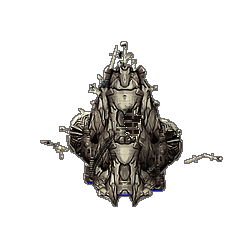
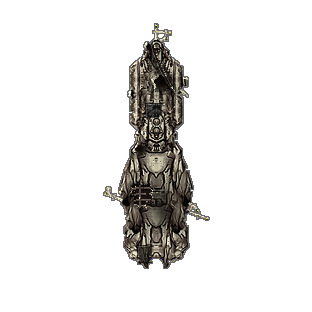
The Purifier escorts round 5b: long, lean end-to-end hulls, larger on screen
- Frigate, destroyer, cruiser, capital ship and troop transport rebuilt with their stock hulls meshed end to end
  (needle bow hulls, long main hulls, tapering sterns) instead of side by side: length 2-3x the width, drawn
  larger than the stock warships of each role (frigate 124, destroyer 160, cruiser 189, capital 216 px long at the
  closest zoom vs stock medians 92 / 98 / 119 / 152), the capital ship the longest with slim sponson hulls
  amidships; the planet destroyer stays the biggest mass (200 x 185).
- The banana carrier unchanged; fewer edge spikes on the small ships.
- Detail metric: every escort above the stock median on edge density and local contrast.

Claude-Session: https://claude.ai/code/session_0163BYLbDKYohHLP1KWpaU5H

Changed region(s): [[0.14, 0.056, 0.896, 0.868]]

diff --git a/game/scripts/purifier-ships.py b/game/scripts/purifier-ships.py
@@ -23,13 +23,13 @@ Per output frame (bow up, as the stock frames; square canvas with a margin for t
    dropped: thrusters only where open space lies aft), each casting a soft contact shadow on what is below; the
    stock pieces carry their levelled shading, the AncientHelpers ones their native colour, their lights as a glow
    channel and their thruster (pure blue) / light (pure yellow) marker pixels as points, mapped through each
-   placement. The escorts: a frigate of a swept-wing hull aft, a dart forward through it and a slim outrigger hull
-   to port; a destroyer of a broad engine section, a long hull forward and a spine hull on top; a cruiser of twin
-   nacelle hulls aft, a swept-wing hull and a broad command hull; a capital ship of a wide armoured hull aft, a long
-   heavy hull forward, slim sponson hulls on both flanks and a spinal hull along the starboard side; a carrier of
-   three hulls end to end with the angled flight deck (landing lanes, chevrons, landing lights, hangar lifts) fused
-   along its port flank, the whole bent into a banana curve (bend()); a troop transport of a long troop hull with two
-   bulbous pod hulls fused on its flanks. Then masts and the edge dressing: whips and sensor masts (single and in
+   placement. The escorts are long and lean, their hulls meshed end to end: a frigate of a needle bow hull run into
+   a longer main hull; a destroyer of a needle bow, a long main hull and a slim engine hull; a cruiser of a pointed
+   bow hull, a broad main hull and a tapering stern hull; the capital ship, the longest, of a needle bow, two heavy
+   hulls and a wide engine hull with two slim hulls along its midsection as sponsons; a troop transport of a slim
+   bow hull run into the troop hull; and the carrier of three hulls end to end with the angled flight deck (landing
+   lanes, chevrons, landing lights, hangar lifts) fused along its port flank, the whole bent into a banana curve
+   (bend()). Then masts and the edge dressing: whips and sensor masts (single and in
    fanned clusters), short spikes, small dishes on stalks, fins, small turrets, vents and pipes planted round the
    outline pointing outward. Some tips and beads (at most 18 per frame, under the scan cap of 20) are pure-yellow
    nav-light markers, so they blink at runtime as the planet destroyer's own spike lights do. The dock and outpost:
@@ -1305,53 +1305,52 @@ def build(root, name, rng):
         edge_dress(c, (c.A > 0.5).astype(np.float64), n, lights=18, avoid=avoid, k=0.6)
 
     if name == 'frigate':
-        # Three hulls meshed: a swept-wing hull aft, a long dart forward through it, a slim outrigger hull fused on
-        # to port.
-        c = Canvas(160, pad=20, z=1.25)
-        c.put(H('family17', 'frigate'), 80, 104, 0.5, shadow=0)
-        c.put(H('family7', 'frigate'), 54, 102, 0.5, shadow=0.4, gain=0.95)
-        c.put(H('family22', 'frigate'), 82, 82, 0.42, shadow=0.6)
-        mast(c, 82, 30, 20, 4, beads=(0.5,))
-        mast(c, 112, 112, 26, -60)
-        mast(c, 46, 76, 22, 34)
-        dress(c, 18)
+        # Two hulls end to end: a needle bow hull run into a longer main hull, a sleek dart.
+        c = Canvas(190, pad=20, z=1.25)
+        c.put(H('family14', 'frigate'), 95, 120, 0.5, shadow=0)
+        c.put(H('family25', 'frigate'), 95, 52, 0.5, shadow=0.55)
+        mast(c, 95, 14, 18, 0, beads=(0.5,))
+        mast(c, 72, 140, 22, 70)
+        mast(c, 118, 150, 20, -110)
+        dress(c, 10)
         return c
     if name == 'destroyer':
-        # A broad engine section aft with a long hull run forward through it and a narrow spine hull on top.
-        c = Canvas(180, pad=20, z=1.25)
-        c.put(H('family12', 'destroyer'), 90, 122, 0.5, shadow=0)
-        c.put(H('family14', 'destroyer'), 90, 90, 0.5, shadow=0.55)
-        c.put(H('family25', 'destroyer'), 90, 98, 0.42, shadow=0.5, gain=1.05)
-        mast(c, 90, 34, 22, 0, beads=(0.5,))
-        mast(c, 40, 130, 26, 70)
-        mast(c, 140, 130, 26, -70)
-        dress(c, 22)
+        # Three hulls end to end: a needle bow hull, a long main hull, a slim engine hull aft.
+        c = Canvas(260, pad=20, z=1.25)
+        c.put(H('family7', 'destroyer'), 130, 206, 0.5, shadow=0)
+        c.put(H('family24', 'destroyer'), 130, 132, 0.5, shadow=0.5)
+        c.put(H('family25', 'destroyer'), 130, 54, 0.5, shadow=0.55)
+        mast(c, 130, 12, 20, 0, beads=(0.5,))
+        mast(c, 106, 120, 26, 60)
+        mast(c, 154, 170, 24, -120)
+        dress(c, 14)
         return c
     if name == 'cruiser':
-        # Twin hulls aft as engine nacelles, a swept-wing hull fused over them, a broad command hull over its bow.
-        c = Canvas(210, pad=20, z=1.25)
-        c.put(H('family8', 'cruiser'), 80, 138, 0.42, shadow=0)
-        c.put(H('family8', 'cruiser'), 130, 138, 0.42, flipx=True, shadow=0)
-        c.put(H('family4', 'cruiser'), 105, 120, 0.5, shadow=0.4)
-        c.put(H('family21', 'cruiser'), 105, 100, 0.45, shadow=0.6)
-        mast(c, 105, 44, 26, 0, beads=(0.5,))
-        mast(c, 74, 112, 30, 50)
-        mast(c, 136, 112, 30, -50)
-        dress(c, 30)
+        # Three hulls end to end: a long pointed bow hull, a broad main hull amidships, a tapering stern hull.
+        c = Canvas(320, pad=20, z=1.25)
+        c.put(H('family14', 'cruiser'), 160, 250, 0.5, shadow=0)
+        c.put(H('family22', 'cruiser'), 160, 152, 0.5, shadow=0.5)
+        c.put(H('family25', 'cruiser'), 160, 62, 0.5, shadow=0.55)
+        mast(c, 160, 14, 24, 0, beads=(0.5,))
+        mast(c, 124, 150, 30, 64)
+        mast(c, 196, 150, 30, -64)
+        dress(c, 22)
         return c
     if name == 'capitalship':
-        # A wide armoured hull aft, a long heavy hull run forward over it, slim hulls fused along both flanks as
-        # gun sponsons, a long spinal hull laid along the starboard flank as the main gun.
-        c = Canvas(250, pad=20, z=1.25)
-        c.put(H('family9', 'capitalship'), 125, 146, 0.5, shadow=0)
-        c.put(H('family7', 'destroyer'), 82, 156, 0.5, shadow=0.35)
-        c.put(H('family7', 'destroyer'), 168, 156, 0.5, flipx=True, shadow=0.35)
-        c.put(H('family25', 'capitalship'), 158, 116, 0.5, shadow=0.45, gain=0.95)
-        c.put(H('family8', 'capitalship'), 122, 112, 0.5, shadow=0.6)
-        mast(c, 122, 40, 26, 0, beads=(0.5,))
-        mast(c, 60, 150, 34, 64)
-        mast(c, 96, 200, 28, 140)
-        dress(c, 40)
+        # Four hulls end to end, the longest ship: a needle bow hull, two heavy hulls amidships, a wide engine hull aft;
+        # two slim hulls fused along the midsection flanks as heavy sponsons.
+        c = Canvas(380, pad=20, z=1.25)
+        c.put(H('family22', 'capitalship'), 190, 300, 0.5, shadow=0)
+        c.put(H('family7', 'cruiser'), 148, 228, 0.5, shadow=0)
+        c.put(H('family7', 'cruiser'), 232, 228, 0.5, flipx=True, shadow=0)
+        c.put(H('family9', 'capitalship'), 190, 222, 0.5, shadow=0.5)
+        c.put(H('family8', 'capitalship'), 190, 140, 0.5, shadow=0.55)
+        c.put(H('family25', 'capitalship'), 190, 58, 0.5, shadow=0.55)
+        mast(c, 190, 10, 26, 0, beads=(0.5,))
+        mast(c, 124, 224, 34, 66)
+        mast(c, 256, 224, 34, -66)
+        mast(c, 166, 120, 26, 40)
+        dress(c, 30)
         return c
     if name == 'carrier':
         # The banana: one long hull of three stock hulls meshed end to end (a slim bow hull, a broad carrier hull
@@ -1373,15 +1372,14 @@ def build(root, name, rng):
         dress(c, 28, avoid=tuple((60 + ((y - 138) ** 2) / 300, y, 22) for y in range(30, 260, 16)))
         return c
     if name == 'trooptransport':
-        # A long troop hull with two bulbous pod hulls fused along its flanks, a little offset.
-        c = Canvas(160, pad=20, z=1.25)
-        c.put(H('family13', 'trooptransport'), 54, 98, 0.5, shadow=0)
-        c.put(H('family13', 'trooptransport'), 106, 104, 0.5, flipx=True, shadow=0)
-        c.put(H('family21', 'trooptransport'), 80, 88, 0.5, shadow=0.6)
-        mast(c, 80, 32, 20, 0, beads=(0.5,))
-        mast(c, 34, 100, 24, 70)
-        mast(c, 128, 110, 24, -70)
-        dress(c, 18)
+        # Two hulls end to end: a slim pointed bow hull run into the troop hull, its drop bays along the flanks.
+        c = Canvas(210, pad=20, z=1.25)
+        c.put(H('family21', 'trooptransport'), 105, 138, 0.5, shadow=0)
+        c.put(H('family25', 'trooptransport'), 105, 56, 0.5, shadow=0.55)
+        mast(c, 105, 12, 18, 0, beads=(0.5,))
+        mast(c, 78, 140, 22, 70)
+        mast(c, 132, 150, 22, -110)
+        dress(c, 10)
         return c
     if name == 'base_0':
         # A broken outpost: the Shakturi station body inside a half-ring of gantry, one arm snapped, debris adrift.

diff --git a/game/docs/release-notes.md b/game/docs/release-notes.md
@@ -4,7 +4,7 @@ Notes for the next release, to copy into the GitHub release (RELEASING.md step 2
 
 ## Unreleased
 
-- **The Purifier: war-forged escorts and a ruined dock.** The Purifier's escorts and guards (escort, frigate, destroyer, cruiser, capital ship, carrier, troop transport) have new art in the planet destroyer's own colours (silver and champagne plating, pale-gold and copper trim, dark steel machinery), so they read as its fleet. Each is two to four existing hulls fused into one ship, keeping their detailed paintwork, so none looks like an existing race's ship: a frigate with swept wings and an outrigger hull, a destroyer with a broad engine section, a cruiser on twin engine nacelles, a capital ship with sponson hulls on both flanks and a long spinal hull along one side, a banana-curved carrier with its landing deck (landing lanes, landing lights, hangar lifts) running along the curve, and a troop transport with two bulbous pod hulls on its flanks. Like the destroyer's spikes, thin antennas, whips, small dishes and fins stick out all round them, with blinking lights on some of the tips. They are battered by ages of fighting: missing hull plates showing the ribbed frame inside, gouges, impact craters, scorch, melted edges, gunmetal and steel plates welded over old holes and chipped edges. Brighter edges, darker recesses and a thin dark outline keep them readable at normal zoom and against nebulae. Its dock is now a half-ruined shipyard in the same metal, with masts and lights of its own: an empty cradle ring where the Purifier slept, clamp arms reaching in (one snapped off and drifting), broken gantries and scaffold arms, and debris floating around it; its other stations match. The planet destroyer itself keeps its look, the biggest ship and the only one with a glowing core, so it still stands out as the one unbroken weapon. Looks only: nothing in the game rules changes.
+- **The Purifier: war-forged escorts and a ruined dock.** The Purifier's escorts and guards (escort, frigate, destroyer, cruiser, capital ship, carrier, troop transport) have new art in the planet destroyer's own colours (silver and champagne plating, pale-gold and copper trim, dark steel machinery), so they read as its fleet. Each is two to four existing hulls fused into one ship, keeping their detailed paintwork, so none looks like an existing race's ship. They are long, lean warships with their hulls joined end to end and tapering bows, larger on screen than the ordinary warships of their class (the capital ship the longest, with heavy sponsons amidships), and the carrier is a banana-curved hull with its landing deck (landing lanes, landing lights, hangar lifts) running along the curve. Like the destroyer's spikes, thin antennas, whips, small dishes and fins stick out all round them, with blinking lights on some of the tips. They are battered by ages of fighting: missing hull plates showing the ribbed frame inside, gouges, impact craters, scorch, melted edges, gunmetal and steel plates welded over old holes and chipped edges. Brighter edges, darker recesses and a thin dark outline keep them readable at normal zoom and against nebulae. Its dock is now a half-ruined shipyard in the same metal, with masts and lights of its own: an empty cradle ring where the Purifier slept, clamp arms reaching in (one snapped off and drifting), broken gantries and scaffold arms, and debris floating around it; its other stations match. The planet destroyer itself keeps its look, the biggest ship and the only one with a glowing core, so it still stands out as the one unbroken weapon. Looks only: nothing in the game rules changes.
 - **Mothball slot: left-click opens the port list.** On the selection panel, clicking Mothball now lists your space ports (best one first, marked ★) instead of sending the force straight to the best port, as the Fleets and Ships screens already did. Reactivate and Cancel still act at once.
 - **Crisis interactions: reputation, opportunists, the council, Purifier refugees.** The loose crisis factions (the Purifier, the Cult, the Hive, Generation Ships, and the Grey Tide, Ghost Armada, Dark Farms, Robot Mutiny, Hollow Fleet and Probe Swarm) now draw reactions from the rest of the galaxy, with no new screens: (1) *Reputation* (needs the Reputation add-on): an empire that fights a crisis (kills its ships, loses ships to it, keeps shooting at it) earns a small, once-only +3 regard from every empire that has met it and is not at war with it; an empire that sits a crisis out for two years (once the faction has hurt someone) while it is within three sectors of its colonies loses 2 with the same empires; both fade by 1 a year, and a human empire is told. (2) *Opportunists*: when a crisis hits an empire (a colony risen to the faction, invaded or destroyed) and a rival that was not already at war with it declares war on it within 180 days, both empires get a message ("X takes advantage of the Cult rising in Y"), the whole galaxy gets a news line (so the event log has it), and, with Reputation on, the victim's regard for the rival drops by 3. It only reports what the stock AI does. (3) *The Galactic Council* (and the Interstellar Diet) can table, through its existing motion kinds, declaring a loose crisis faction a threat to the galaxy (the joint defence; once passed, AI members that have met a non-pirate faction declare war on it, a joint war), sanctioning it (non-pirate factions), and condemning an empire seen helping it (the exposed waker of the Purifier, or a treaty partner of the faction). Only in a game with a council. (4) *Purifier refugees*: when the Purifier destroys a populated colony, 20% of each race survives and flees to the nearest colonies (the owner's own first, then neighbours not at war with it): as ordinary refugee convoys when Refugees & Demographics is on, otherwise at once. Receiving colonies keep the people as extra population and take a crowding hit on approval (up to -4, fading over 18 months).
 - **Void Whale: the Leviathan's fins and flukes join its body cleanly.** The dark notch and the black strip along the body's edge under the pectoral fins are gone (the edge there was filled with keyed-out background), and the hard straight seam where each fin met the body is now a soft join: the flank's hide runs into the fin's base and swells over it, matching in texture, colour, lighting and weathering. The fins carry a deeper strip of hide under their roots, so no gap or dark sliver opens as they row forward and back, and the flukes' stalk now matches the body's shading where they join and stays inside the stalk through the whole tail stroke. The harpoons and wounds are unchanged. Art only (regenerated by scripts/leviathan-parts.py).
